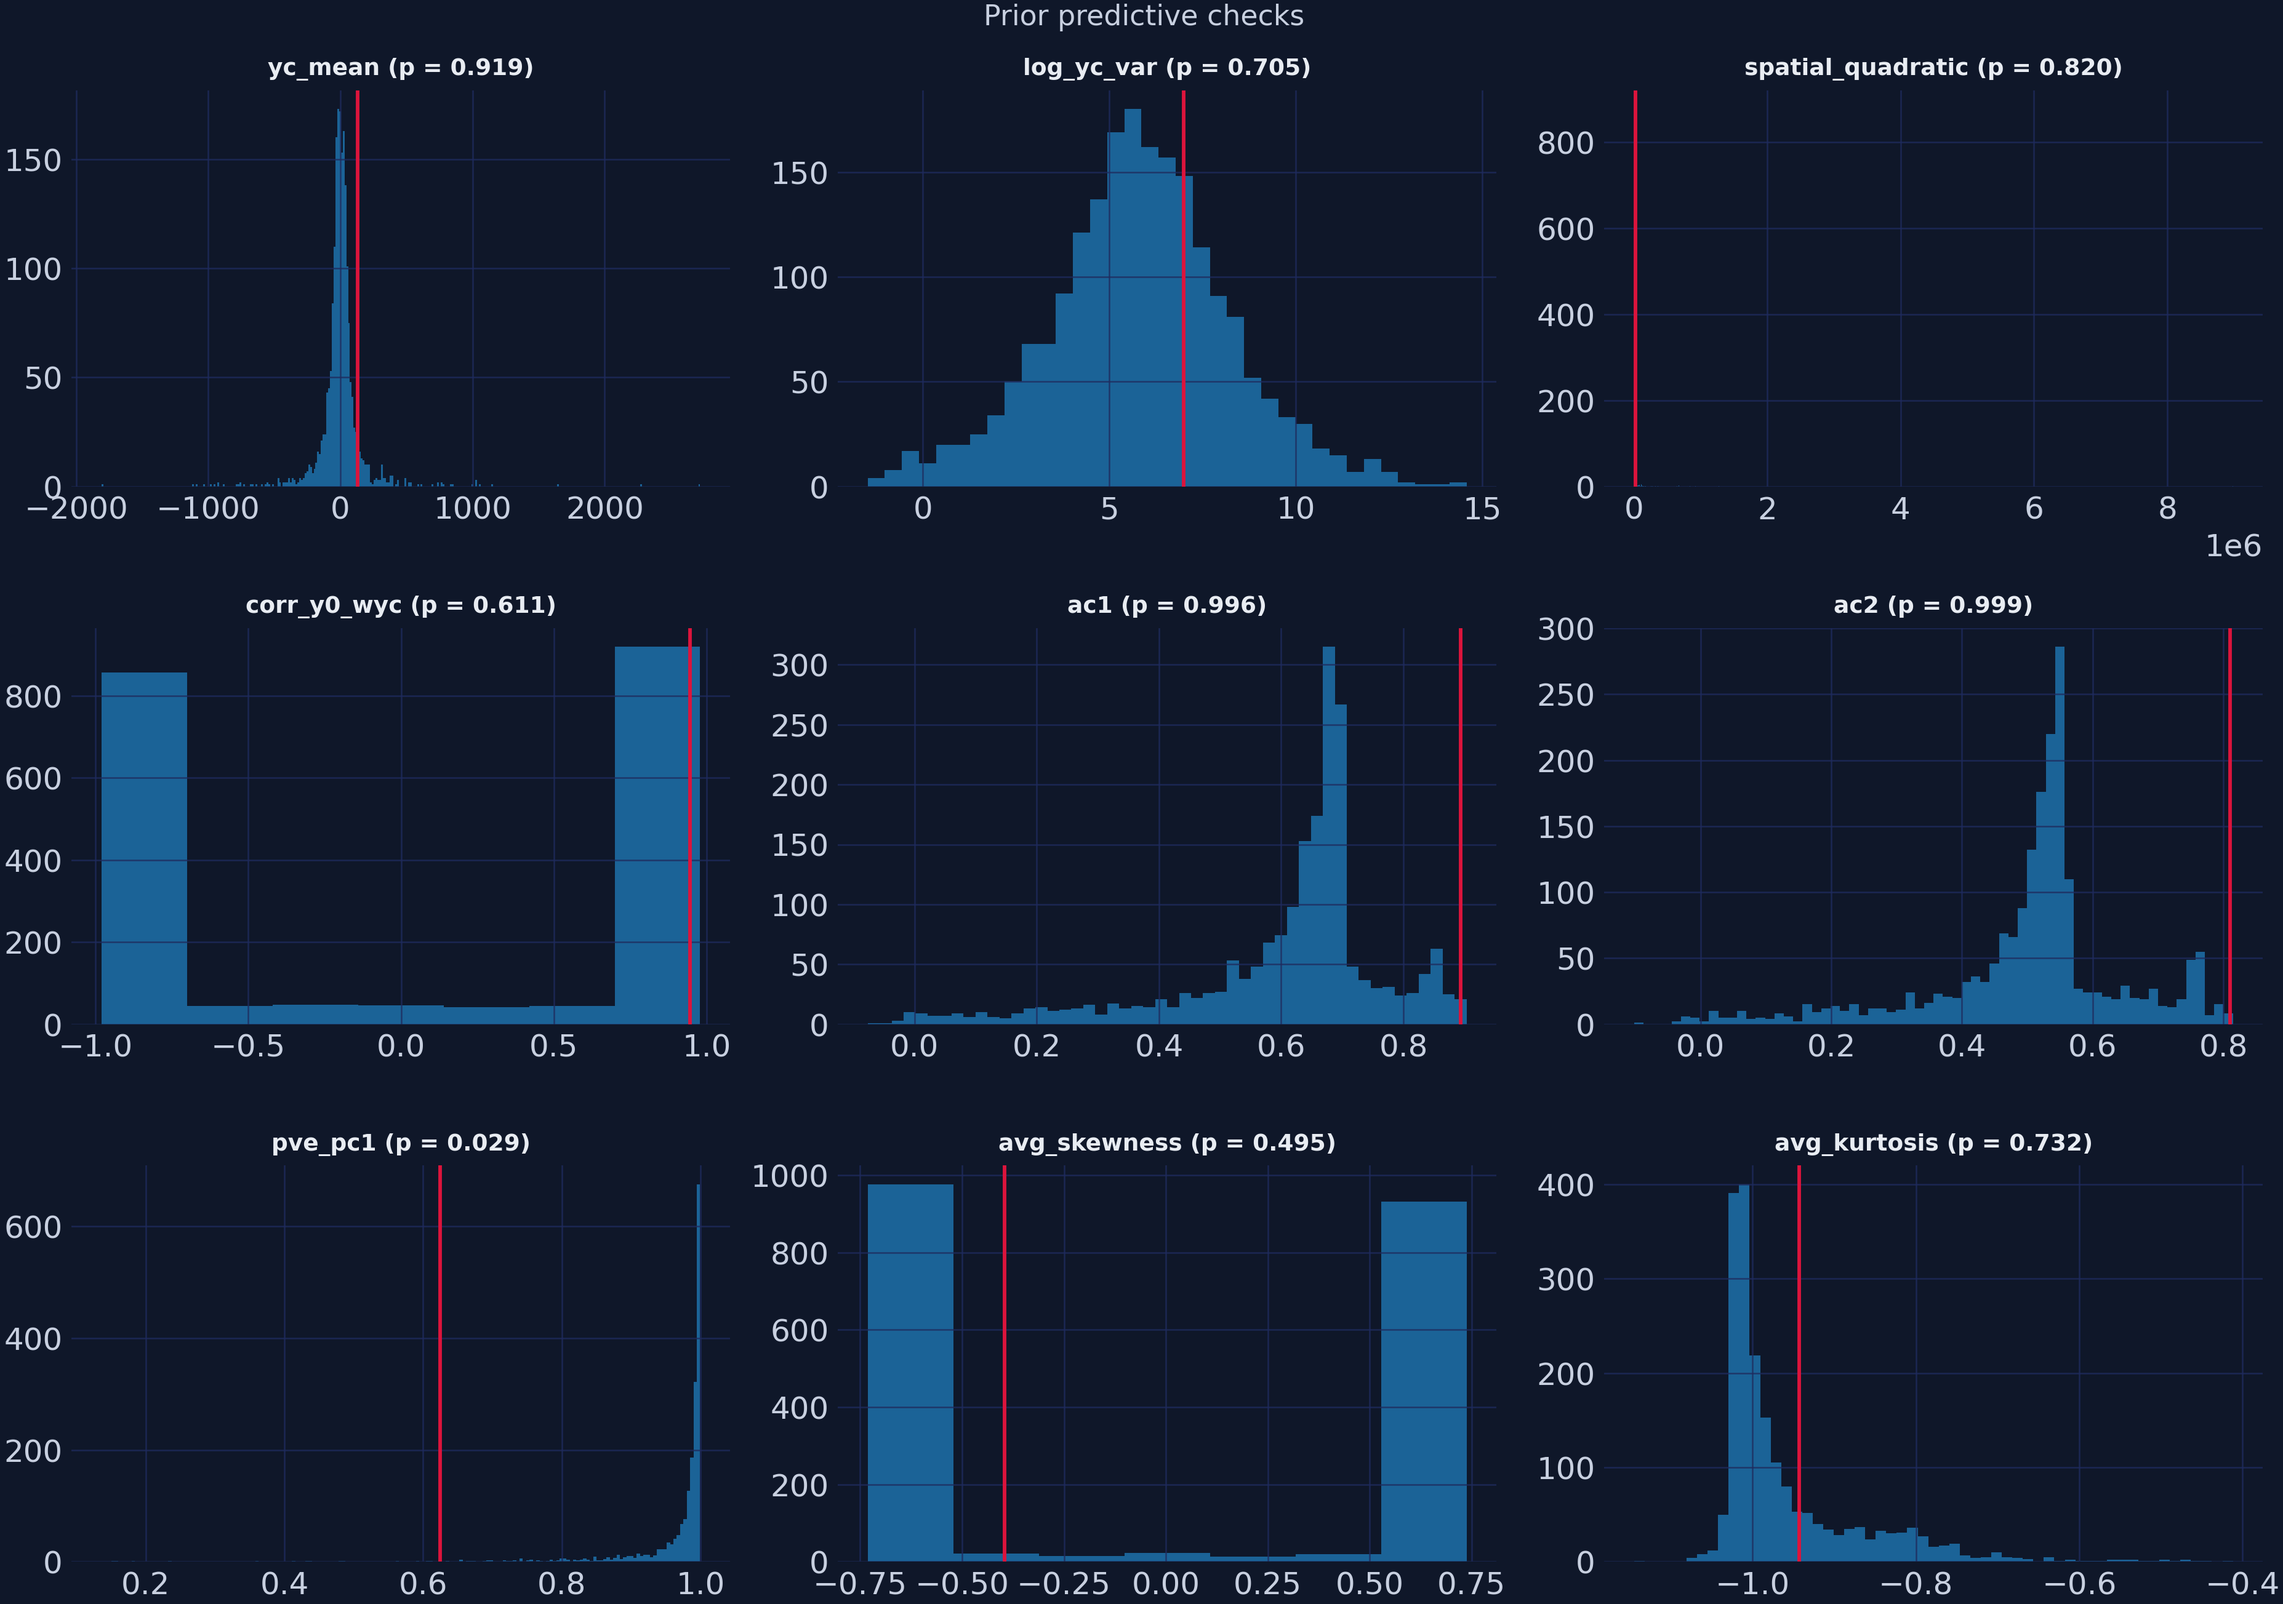
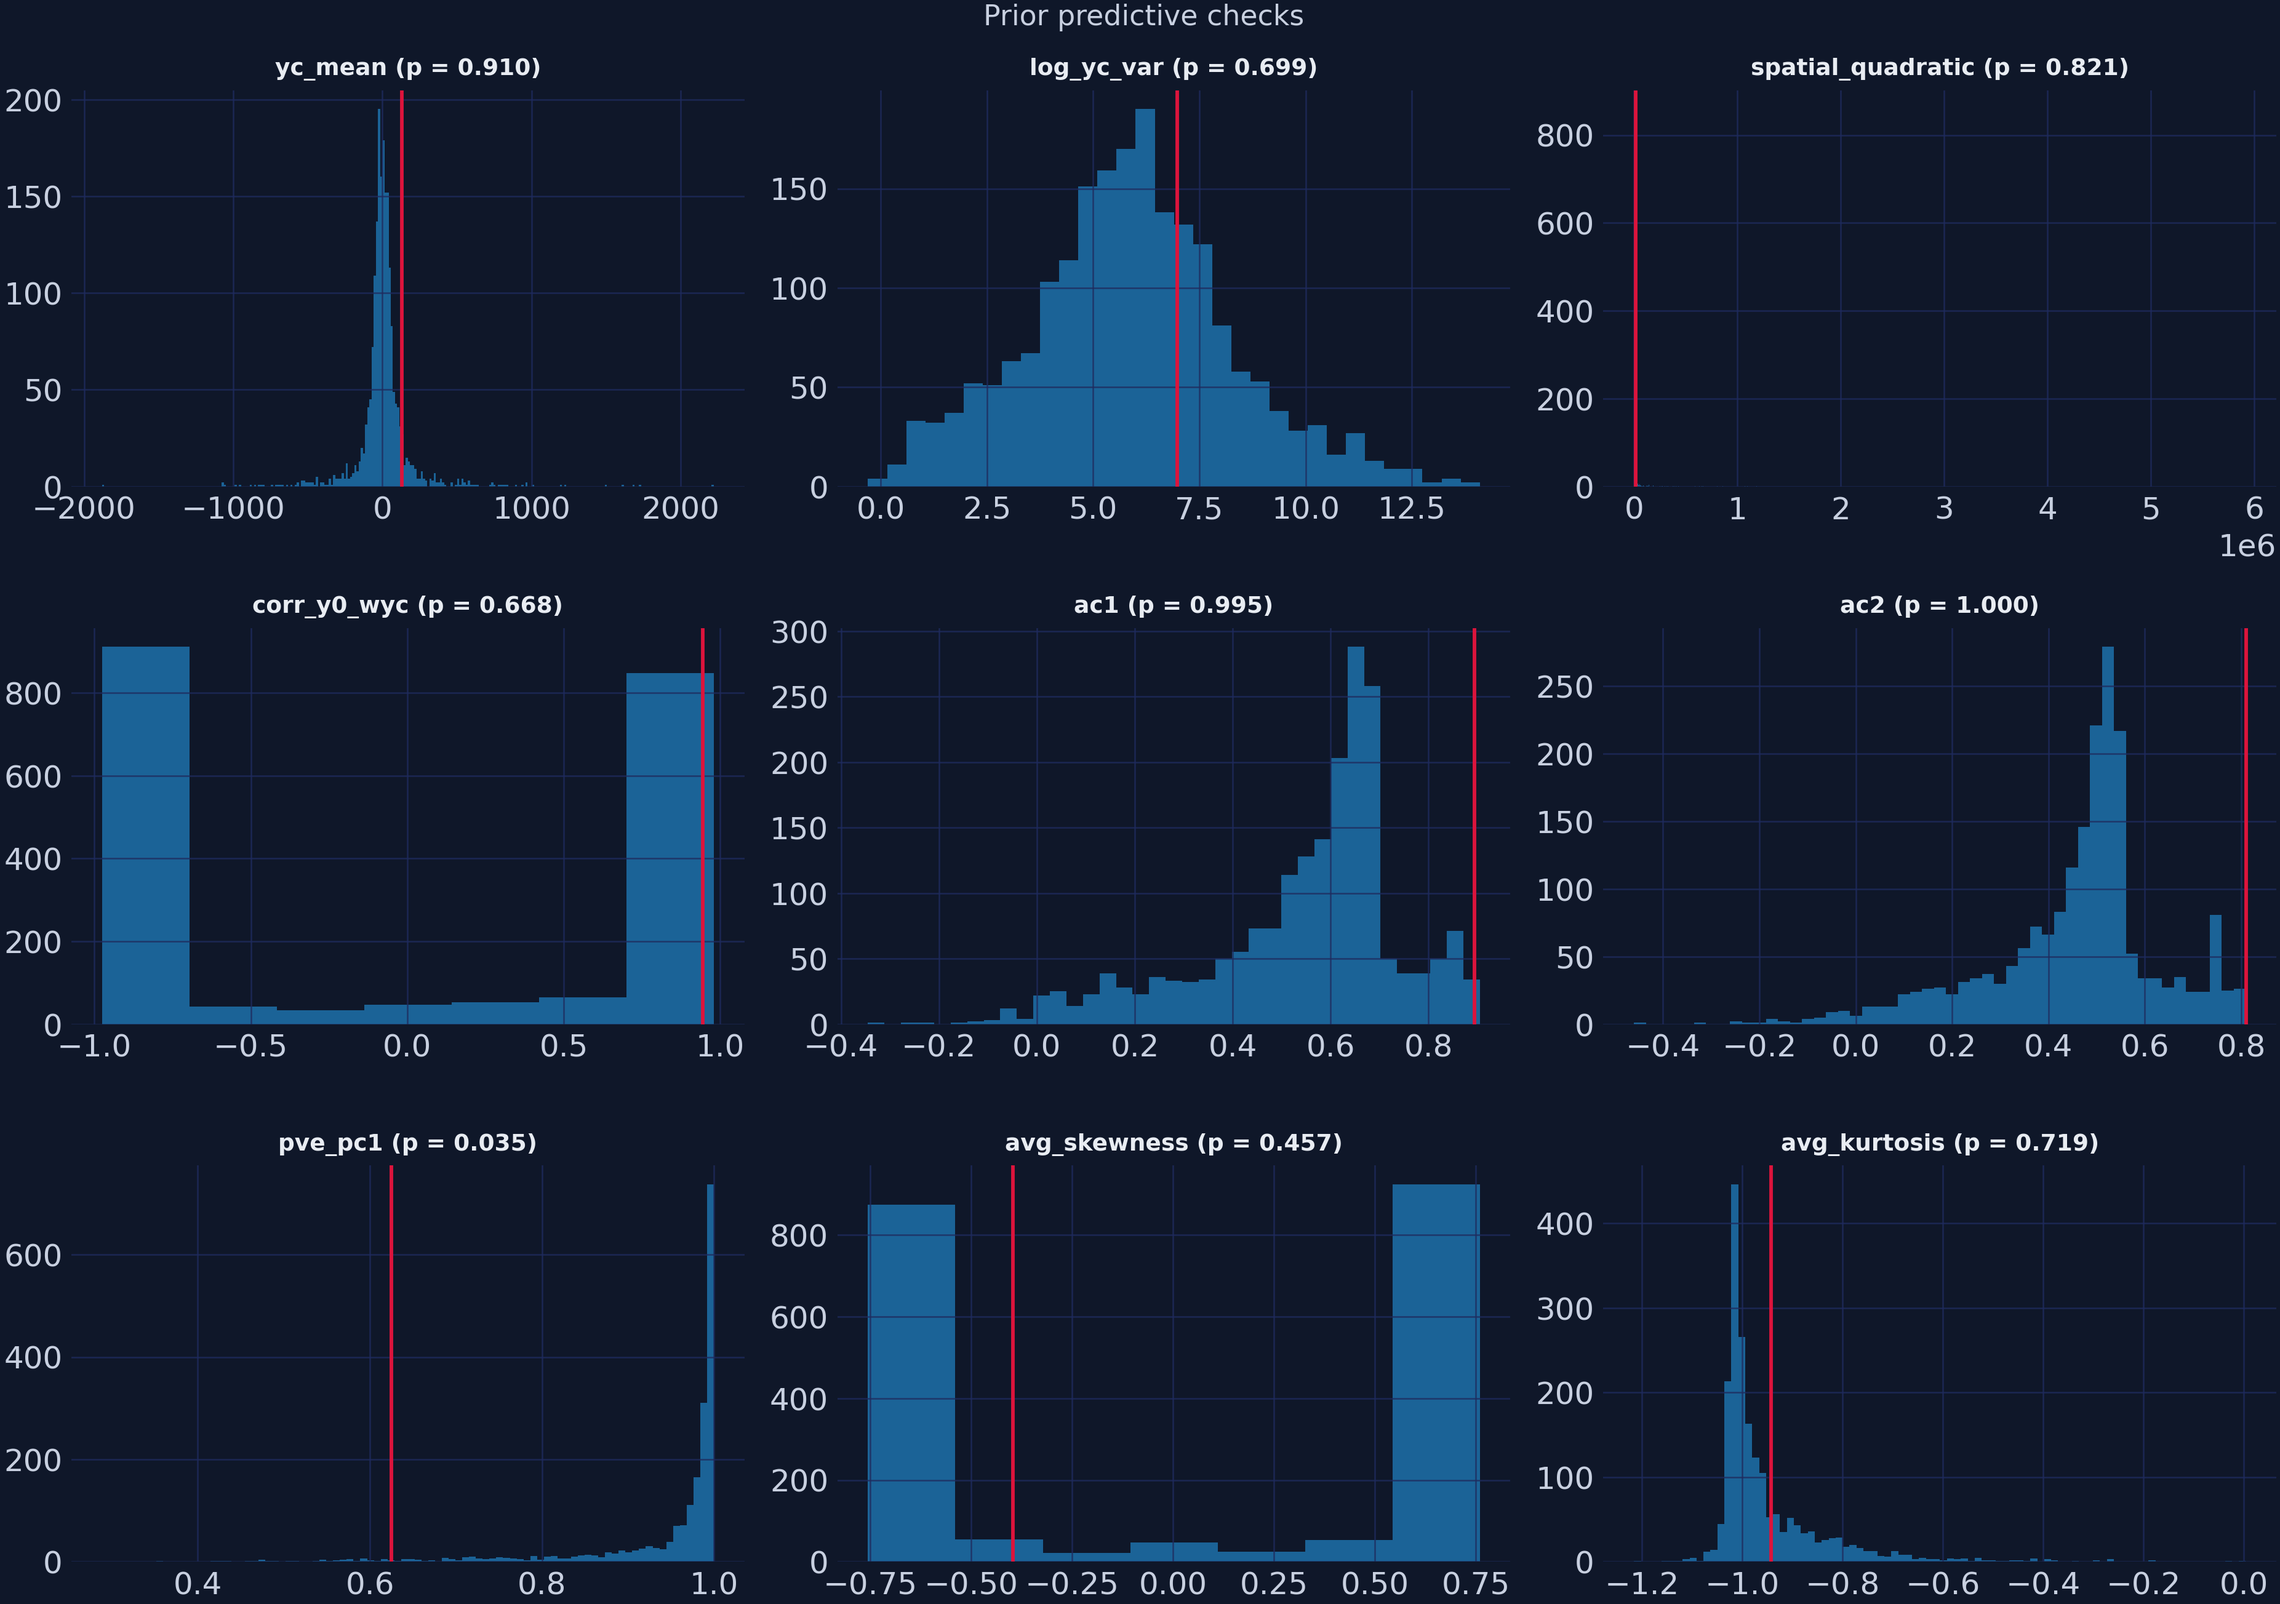
python_sc_bayes_spatial: cold re-run; prior predictive check uses p=1
- Cold re-run (FORCE_REFIT=1, cache cleared, full benchmark, MC_SIMS=60)
  with scspill 0.2.1 and mlsynth@15f168b reproduces every committed
  result to about 1e-9; only run times change (benchmark, mc_grid,
  prior_sensitivity CSVs and results.json).
- The prior predictive check ran with p=0 (no latent factor) while the
  fitted model uses p_factors=1; it now checks the fitted prior (p=1).
  Figure 13 and prior_predictive.csv regenerated; execution_log.txt from
  the warm re-run.
- Docstring: 19 figures (not 20); cold run time about 70 minutes.

diff --git a/content/tutorials/python_sc_bayes_spatial/analysis.py b/content/tutorials/python_sc_bayes_spatial/analysis.py
@@ -23,11 +23,12 @@ Usage:
     BENCH_TIER=fast python analysis.py    # skip the three slow benchmark rows
     MC_SIMS=15    python analysis.py      # a coarser Monte Carlo
 
-Run time: about 35 minutes cold, under a minute warm. The three dominant costs
-are the benchmark sweep (BVSS alone is ~3.5 min), the Monte Carlo, and the
-web-app budget ladder under APP_DATA=1.
+Run time: about 70 minutes cold (2026-11-20), a few minutes warm. The dominant
+costs are the two 500,000-iteration SPILLSYNTH(sar) fits (about 20 minutes each
+on the numpy backend), the rest of the benchmark sweep, and the web-app budget
+ladder under APP_DATA=1.
 
-Outputs:  python_sc_bayes_spatial_*.png (20 figures) and *.csv (23 tables).
+Outputs:  python_sc_bayes_spatial_*.png (19 figures) and *.csv (23 tables).
           Under APP_DATA=1, four more app_*.csv tables and the interactive
           companion's web_app/data/results.json (section 13).
 
@@ -1396,15 +1397,17 @@ print(f"  Y0_pre {Y0_pre.shape}   Yc_pre {Yc_pre.shape}   "
       f"X_pre {None if X_pre is None else X_pre.shape}")
 
 # --- 9.1 prior predictive ---------------------------------------------------
+# p=1: the prior of the model actually fitted (p_factors=1). An earlier version
+# used p=0, which checked a model without the latent factor.
 def _run_ppc():
     return prior_predictive(Y0_pre, sar["W_raw"], sar["w_raw"], sar["alpha_hat"],
-                            Yc_obs=Yc_pre, X=X_pre, p=0, a0=3.0, b0=1.0,
+                            Yc_obs=Yc_pre, X=X_pre, p=1, a0=3.0, b0=1.0,
                             n_draws=2000, seed=SEED)
 
 
 try:
     ppc = cached("prior_predictive",
-                 dict(n_draws=2000, a0=3.0, b0=1.0, p=0, seed=SEED,
+                 dict(n_draws=2000, a0=3.0, b0=1.0, p=1, seed=SEED,
                       alpha=sar["alpha_hat"]), _run_ppc)
     # PriorPredictiveResult exposes `observed`, `stats` and `p_values`, not a
     # ready-made table.
